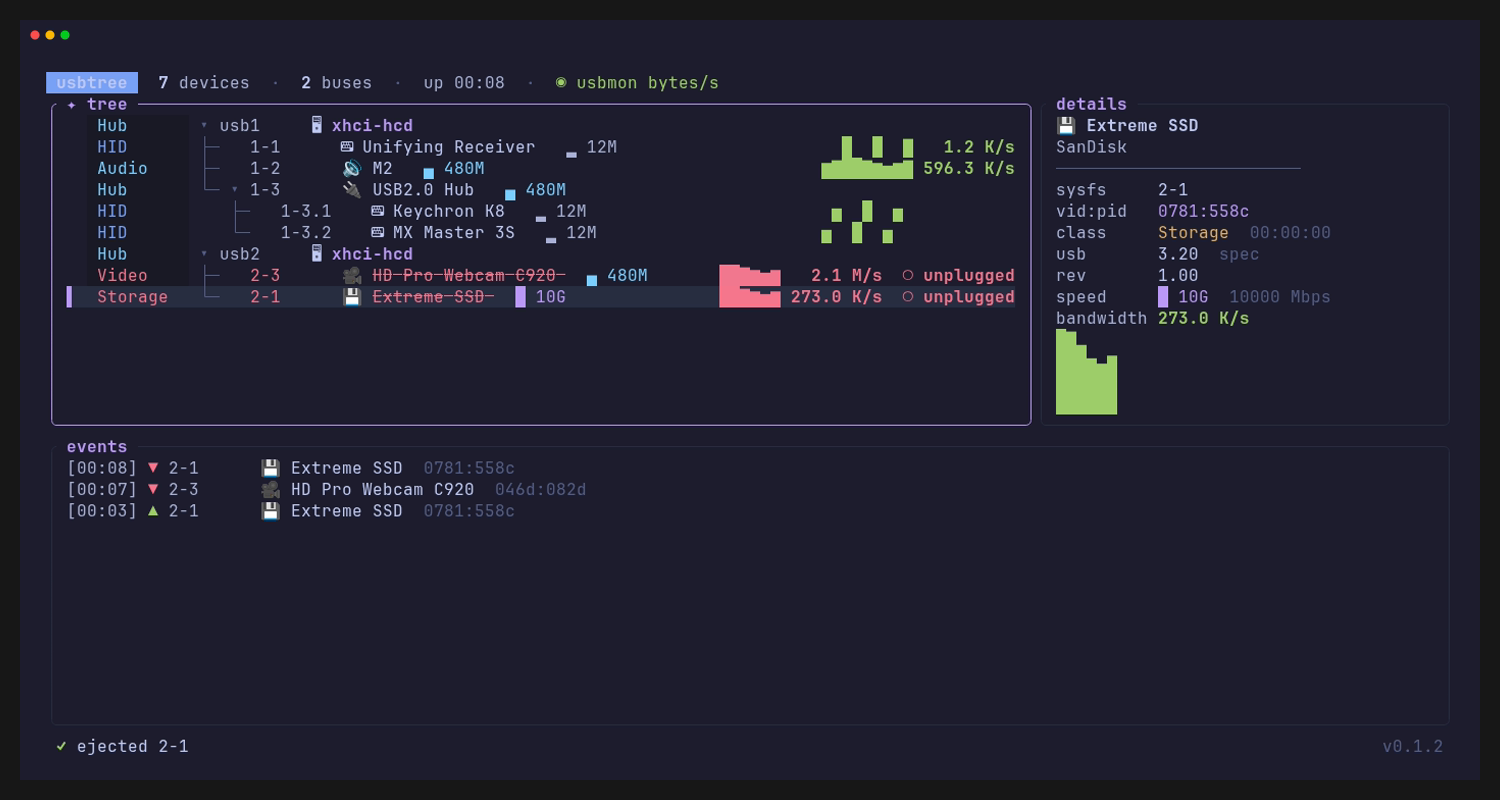
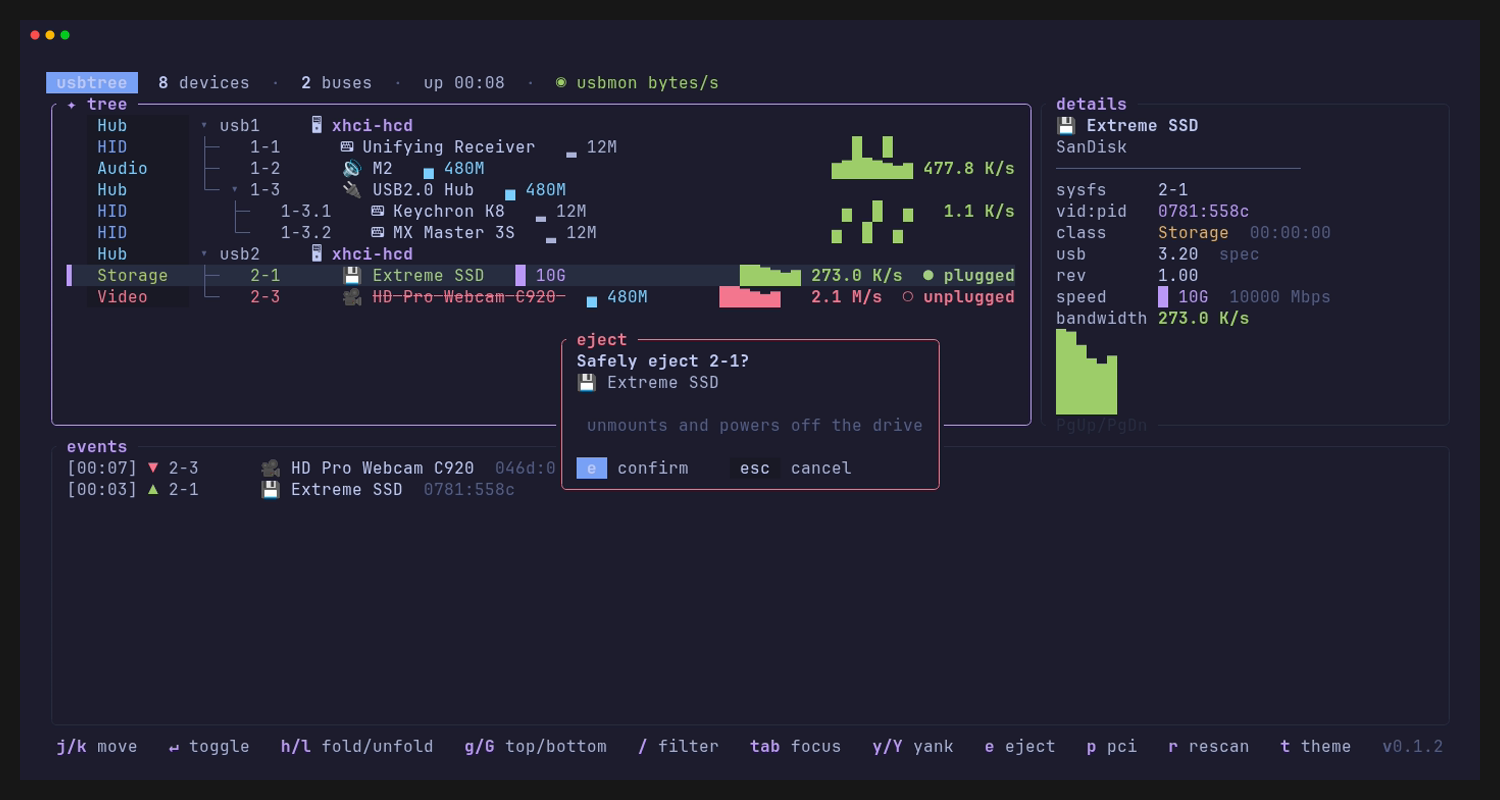
feat(cli): add --theme flag

diff --git a/src/cli.rs b/src/cli.rs
@@ -3,8 +3,9 @@ use std::collections::HashSet;
 
 pub const VERSION: &str = env!("CARGO_PKG_VERSION");
 
-/// Every accepted argument. Keep in sync with `help()` and the `main.rs` dispatch.
-pub const KNOWN_FLAGS: &[&str] = &[
+/// Switches that take no value.
+/// Keep in sync with `help()` and the dispatch in `main.rs`.
+const KNOWN_FLAGS: &[&str] = &[
     "--help",       "-h",
     "--version",
     "--dump",
@@ -20,6 +21,24 @@ pub const KNOWN_FLAGS: &[&str] = &[
 const INSTALL_SH: &str = "https://raw.githubusercontent.com/gnomeria/usbtree/main/scripts/install.sh";
 const INSTALL_PS1: &str =
     "https://raw.githubusercontent.com/gnomeria/usbtree/main/scripts/install.ps1";
+
+pub fn parse_theme<'a>(mut args: impl Iterator<Item = &'a str>) -> Result<Option<u8>, String> {
+    let mut theme = None;
+    while let Some(arg) = args.next() {
+        let name = match arg {
+            "--light" => "latte",
+            "--theme" => args.next().filter(|s| !s.starts_with('-'))
+                .ok_or("--theme requires a theme name")?,
+            _ if KNOWN_FLAGS.contains(&arg) => continue,
+            _ => arg.strip_prefix("--theme=")
+                .ok_or_else(|| format!("unknown option `{arg}`"))?,
+        };
+        let index = crate::ui::theme::THEME_NAMES.iter().position(|&(key, _)| key == name)
+            .ok_or_else(|| format!("unknown theme `{name}`"))?;
+        theme = Some(index as u8);
+    }
+    Ok(theme)
+}
 
 /// `--version`
 pub fn version() {
@@ -41,9 +60,14 @@ Options:
   --updatelist  download the latest usb.ids into the config dir
   --upgrade     update usbtree in place via the official installer
   --demo        fake tree with scripted hot-plug + traffic (no hardware)
+  --theme NAME  select the startup theme
   --light       light theme (for light-background terminals)
   --nerd-font   nerd-font icons
-  --ascii       ascii-only icons"
+  --ascii       ascii-only icons
+
+Theme names:
+  {}",
+        crate::ui::theme::THEME_NAMES.map(|(key, _)| key).join(" ")
     );
 }
 
@@ -119,5 +143,21 @@ pub fn dump(demo: bool) {
                 println!("{indent}    mounted at {mount}");
             }
         }
+    }
+}
+
+#[cfg(test)]
+mod tests {
+    use super::parse_theme;
+
+    #[test]
+    fn last_theme_option_selects_palette() {
+        let args = ["--light", "--theme", "tokyo-night"];
+        assert_eq!(parse_theme(args.into_iter()), Ok(Some(6)));
+
+        let args = ["--theme=terminal", "--light"];
+        assert_eq!(parse_theme(args.into_iter()), Ok(Some(3)));
+
+        assert_eq!(parse_theme(["--theme", "terminal"].into_iter()), Ok(Some(0)));
     }
 }

diff --git a/src/ui.rs b/src/ui.rs
@@ -223,16 +223,16 @@ pub mod theme {
         sky: Color::Rgb(0x83, 0xa5, 0x98),
     };
 
-    pub const THEME_NAMES: [&str; 9] = [
-        "Terminal (Auto)",
-        "Mocha (Dark)",
-        "Macchiato (Dark)",
-        "Latte (Light)",
-        "Dracula",
-        "Nord",
-        "Tokyo Night",
-        "Solarized (Light)",
-        "Gruvbox (Light)"
+    pub const THEME_NAMES: [(&str, &str); 9] = [
+        ("terminal", "Terminal (Auto)"),
+        ("mocha", "Mocha (Dark)"),
+        ("macchiato", "Macchiato (Dark)"),
+        ("latte", "Latte (Light)"),
+        ("dracula", "Dracula"),
+        ("nord", "Nord"),
+        ("tokyo-night", "Tokyo Night"),
+        ("solarized", "Solarized (Light)"),
+        ("gruvbox", "Gruvbox (Light)"),
     ];
 
     fn current() -> &'static ThemeColors {
@@ -658,7 +658,7 @@ pub fn focus_ring(block: Block<'_>, focused: bool) -> Block<'_> {
 
         if let Some((idx, _)) = app.theme_picker {
             let mut items: Vec<ListItem> = Vec::new();
-            for (i, name) in theme::THEME_NAMES.iter().enumerate() {
+            for (i, (_, name)) in theme::THEME_NAMES.iter().enumerate() {
                 let text = if i == idx {
                     format!(" > {} ", name)
                 } else {
@@ -672,7 +672,7 @@ pub fn focus_ring(block: Block<'_>, focused: bool) -> Block<'_> {
                 items.push(ListItem::new(text).style(style));
             }
             
-            let w = theme::THEME_NAMES.iter().map(|n| n.len()).max().unwrap_or(20) as u16 + 8;
+            let w = theme::THEME_NAMES.iter().map(|(_, name)| name.len()).max().unwrap_or(20) as u16 + 8;
             let rect = centered(app.screen, w, items.len() as u16 + 2);
             f.render_widget(Clear, rect);
             

diff --git a/src/main.rs b/src/main.rs
@@ -15,10 +15,11 @@ pub static COLOR_THEME: std::sync::atomic::AtomicU8 = std::sync::atomic::AtomicU
 fn main() -> std::io::Result<()> {
     // Reject unknown args up front — silently falling through to the TUI makes a
     // typo (or a stale binary that predates a flag) look like the flag did nothing.
-    if let Some(bad) = std::env::args().skip(1).find(|a| !cli::KNOWN_FLAGS.contains(&a.as_str())) {
-        eprintln!("usbtree: unknown option `{bad}`\ntry `usbtree --help`");
+    let args: Vec<_> = std::env::args().skip(1).collect();
+    let theme = cli::parse_theme(args.iter().map(String::as_str)).unwrap_or_else(|error| {
+        eprintln!("usbtree: {error}\ntry `usbtree --help`");
         std::process::exit(2);
-    }
+    });
     if std::env::args().any(|a| a == "--version") {
         cli::version();
         return Ok(());
@@ -35,8 +36,8 @@ fn main() -> std::io::Result<()> {
     } else if std::env::args().any(|a| a == "--ascii") {
         ICON_THEME.store(2, std::sync::atomic::Ordering::Relaxed);
     }
-    if std::env::args().any(|a| a == "--light") {
-        COLOR_THEME.store(3, std::sync::atomic::Ordering::Relaxed);
+    if let Some(theme) = theme {
+        COLOR_THEME.store(theme, std::sync::atomic::Ordering::Relaxed);
     }
     let demo = std::env::args().any(|a| a == "--demo");
     if std::env::args().any(|a| a == "--pci") {

diff --git a/tests/cli_tests.rs b/tests/cli_tests.rs
@@ -67,6 +67,25 @@ fn test_cli_unknown_flag_errors() {
 }
 
 #[test]
+fn test_cli_theme() {
+    let bin = env!("CARGO_BIN_EXE_usbtree");
+    for args in [vec!["--theme", "terminal"], vec!["--theme=tokyo-night"]] {
+        let output = Command::new(bin).args(args).args(["--demo", "--dump"]).output().unwrap();
+        assert!(output.status.success());
+        assert!(String::from_utf8_lossy(&output.stdout).contains("Extreme SSD"));
+    }
+    for (args, error) in [
+        (vec!["--theme"], "--theme requires a theme name"),
+        (vec!["--theme", "--dump"], "--theme requires a theme name"),
+        (vec!["--theme", "typo"], "unknown theme `typo`"),
+    ] {
+        let output = Command::new(bin).args(args).output().unwrap();
+        assert_eq!(output.status.code(), Some(2));
+        assert!(String::from_utf8_lossy(&output.stderr).contains(error));
+    }
+}
+
+#[test]
 fn test_cli_demo_dump_has_output() {
     let bin_path = env!("CARGO_BIN_EXE_usbtree");
 

diff --git a/README.md b/README.md
@@ -87,15 +87,19 @@ Or grab a `usbtree_<version>_<os>-<arch>.{tar.gz,zip}` archive from the [latest 
 ## Usage
 
 ```sh
-usbtree                 # TUI
-usbtree --dump          # print the tree once and exit
-usbtree --updatelist    # download the latest usb.ids into the config dir
-usbtree --upgrade       # update to the latest release (re-runs the installer)
-usbtree --version       # print the version
-usbtree --help          # list all flags (also -h)
-usbtree --demo          # fake tree with scripted hot-plug + traffic (no hardware)
-usbtree --light         # use light theme (for light background terminals)
+usbtree                   # TUI
+usbtree --dump            # print the tree once and exit
+usbtree --updatelist      # download the latest usb.ids into the config dir
+usbtree --upgrade         # update to the latest release (re-runs the installer)
+usbtree --version         # print the version
+usbtree --help            # list all flags (also -h)
+usbtree --demo            # fake tree with scripted hot-plug + traffic (no hardware)
+usbtree --light           # use light theme (for light background terminals)
+usbtree --theme terminal  # use the terminal's own colors
 ```
+
+Run `usbtree --help` for theme names. If you pass multiple theme options,
+the last one wins, including `--light` (Latte).
 
 `--upgrade` re-runs the official installer for your platform, so it honours the
 same env vars — e.g. `USBTREE_VERSION=0.1.0 usbtree --upgrade` pins a version,
